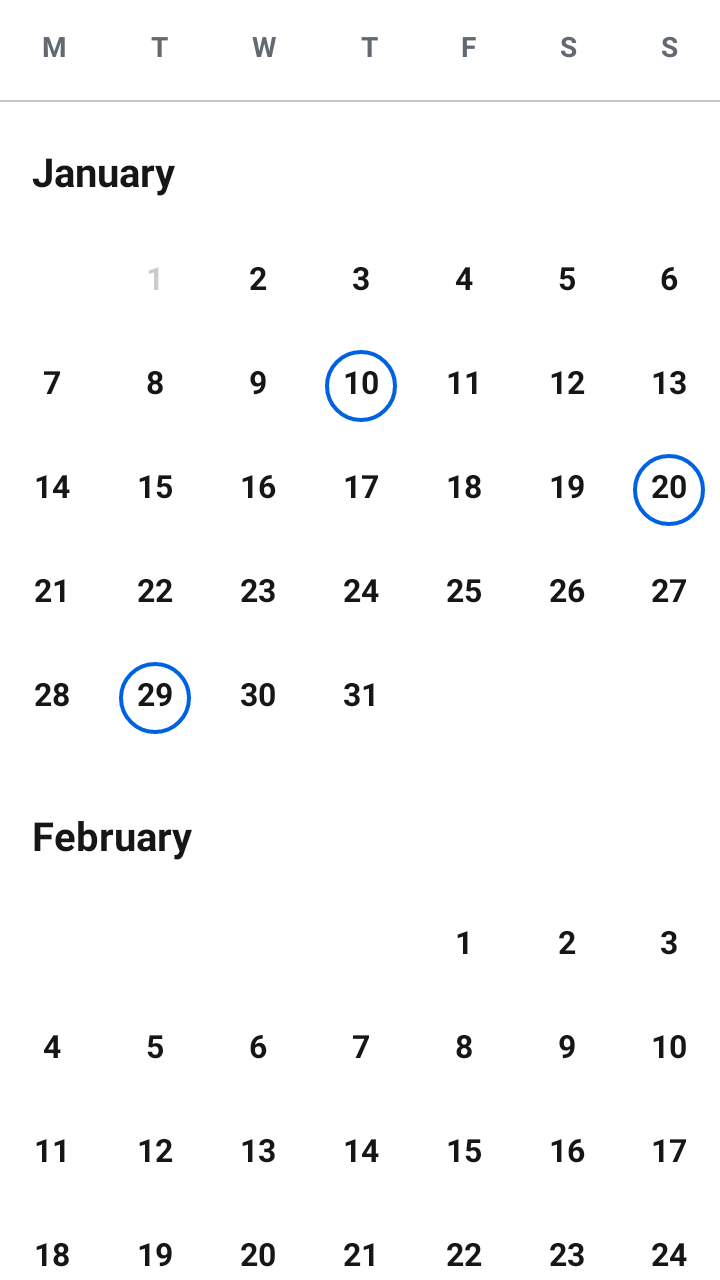
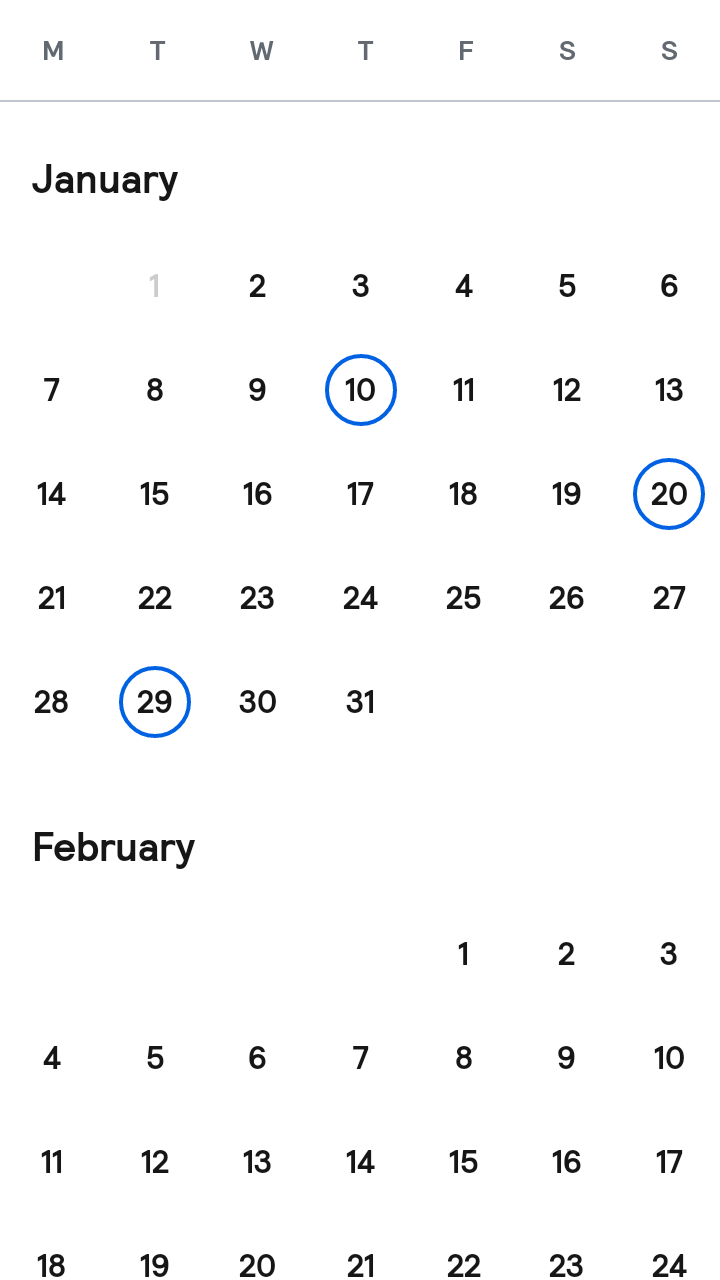
[DON-1260] add snapshot test

diff --git a/backpack-compose/src/main/kotlin/net/skyscanner/backpack/compose/calendar/internal/BpkCalendarDayCell.kt b/backpack-compose/src/main/kotlin/net/skyscanner/backpack/compose/calendar/internal/BpkCalendarDayCell.kt
@@ -194,8 +194,7 @@ private fun Modifier.highlightedDayBackground(
     highlighted: Boolean,
 ): Modifier =
     if (highlighted) this
-        .border(2.dp, coreAccent, CircleShape)
-        .padding(10.dp) else this
+        .border(2.dp, coreAccent, CircleShape) else this
 
 private fun Modifier.cellDayBackground(
     coreAccent: Color,
